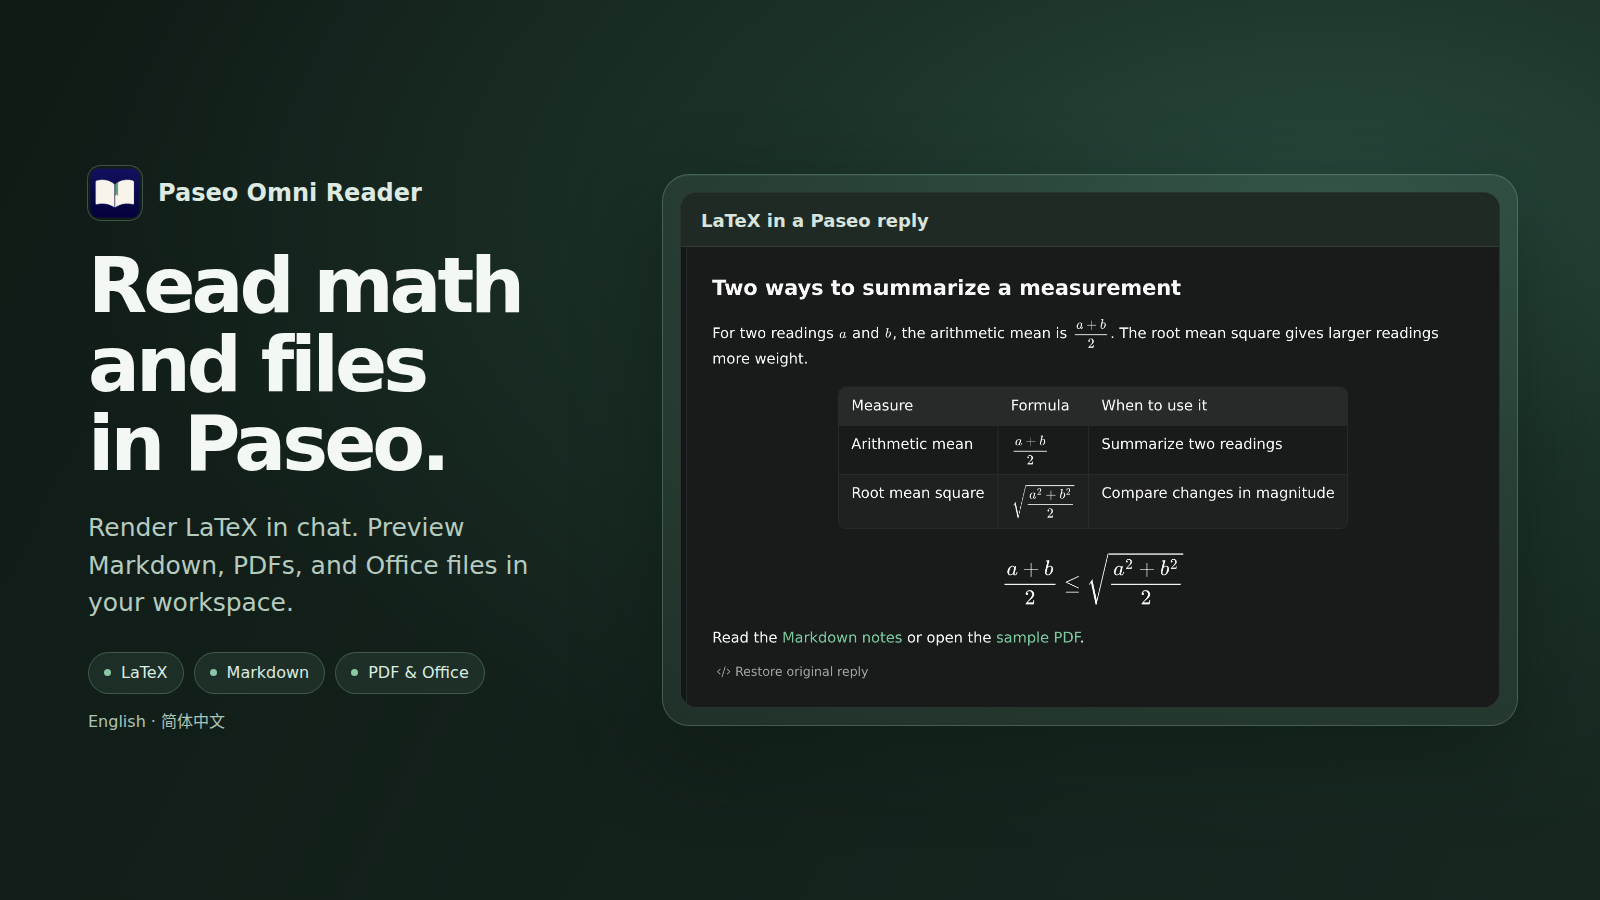
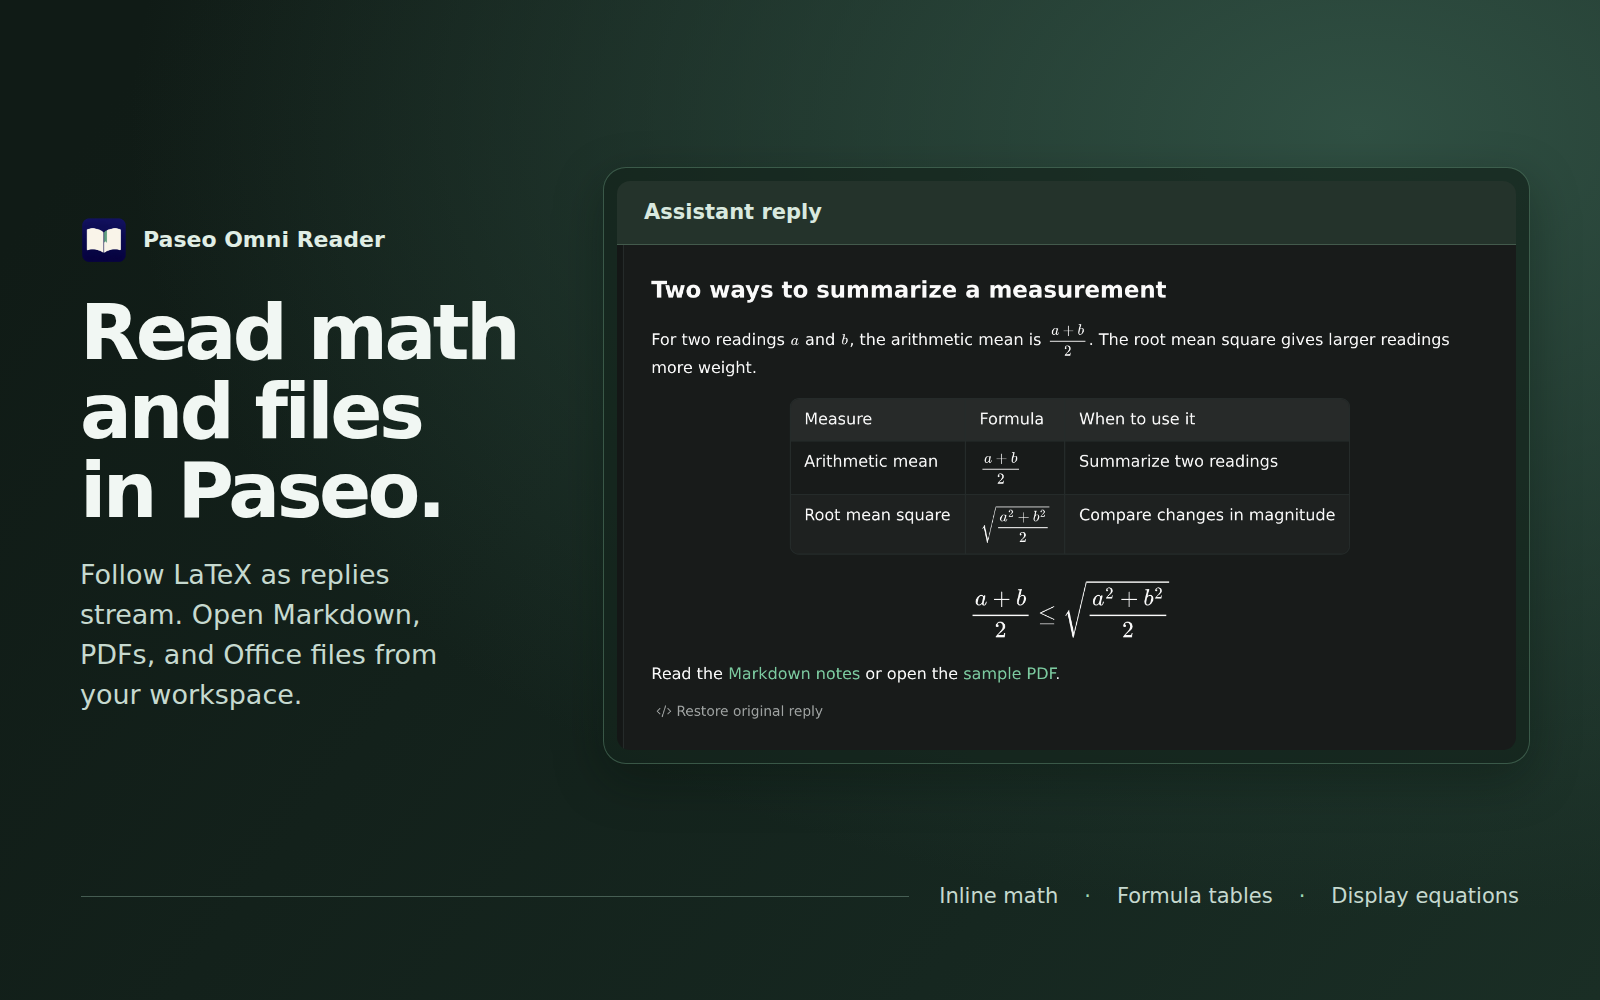
Consolidate marketplace screenshots into three English previews

diff --git a/README.zh-CN.md b/README.zh-CN.md
@@ -6,7 +6,7 @@
 
 Omni Reader 是 Paseo 阅览增强插件。它为流式聊天加入 LaTeX 排版，也为工作区里的 Markdown、PDF、Word、Excel 和 PowerPoint 提供只读预览。
 
-![Paseo 中文回复中的行内分数、公式表格、居中公式和文件链接](assets/chat-zh-CN.png)
+![Paseo 英文回复中的行内分数、公式表格、居中公式和文件链接](assets/cover-en.png)
 
 ## 阅览体验
 
@@ -16,11 +16,9 @@ Omni Reader 是 Paseo 阅览增强插件。它为流式聊天加入 LaTeX 排版
 - **Excel 工作表。** 在网格中双向滚动，按底部标签切换工作表。网格显示行号和列标，保留合并单元格和基础样式。列宽随内容扩展，长文本换行并增加行高。手机上可双指缩放、单指平移。在 Paseo 主机安装 LibreOffice 后，可切换到「打印版式」查看图表和打印效果。
 - **外部编辑。** 在 Paseo 桌面客户端中，本机守护进程上的文件可通过「在外部打开」交给系统默认应用打开原件。浏览器和桌面端的远程工作区下载副本。iOS 和 Android 通过系统分享交给其他 App。Android 系统分享不可用时，可从 Paseo 文件菜单下载副本。
 
-| PDF 阅读器 | PowerPoint 预览 |
+| Markdown 与公式字号 | PDF 与 Office 预览 |
 | --- | --- |
-| ![连续滚动中的横版 PDF 航拍图与下一张竖版页面](assets/pdf-en.png) | ![PowerPoint 幻灯片中的折线图、页码和缩放控件](assets/powerpoint-en.png) |
-
-查看[自动换行的 Excel 备注](assets/excel-zh-CN.png)、[带公式和代码的 Markdown 预览](assets/markdown-zh-CN.png)和[双语公式字号设置](assets/settings-zh-CN.png)。
+| ![渲染后的 Markdown 文档，以及分别设置行内和独立公式字号的选项](assets/markdown-en.png) | ![PDF 航拍图、Word 排版页面、带换行备注的 Excel 工作表和 PowerPoint 折线图](assets/documents-en.png) |
 
 ## 从 GitHub 安装
 

diff --git a/README.md b/README.md
@@ -16,11 +16,9 @@ Omni Reader adds LaTeX to streaming assistant replies and read-only previews for
 - **Excel worksheets.** Read sheets in a scrollable grid with row and column headings, workbook tabs, merged cells, and basic cell styling. Columns expand to fit their contents and long text wraps onto taller rows. Pinch to zoom and drag with one finger on a phone. Use **Print layout** to view the formatted print output and charts when LibreOffice is available on the Paseo host.
 - **External editing.** In Paseo Desktop, **Open externally** opens the original file in the system’s default app when the workspace is on the local daemon. Browsers and remote desktop workspaces download a copy. On iOS and Android, the action hands a copy to the system share sheet. On Android builds where sharing is unavailable, use **Download** from Paseo’s file menu.
 
-| PDF reader | PowerPoint preview |
+| Markdown and formula settings | PDF and Office previews |
 | --- | --- |
-| ![Landscape PDF survey plate followed by a portrait page in continuous view](assets/pdf-en.png) | ![PowerPoint slide with a line chart, slide navigation and zoom controls](assets/powerpoint-en.png) |
-
-See the [Excel worksheet with wrapped notes](assets/excel-zh-CN.png), [Markdown preview with formulas and code](assets/markdown-zh-CN.png), [Simplified Chinese chat example](assets/chat-zh-CN.png), and [bilingual formula size settings](assets/settings-zh-CN.png).
+| ![Rendered Markdown with LaTeX and separate inline and display formula size controls](assets/markdown-en.png) | ![PDF survey map, formatted Word page, Excel worksheet with wrapped notes, and PowerPoint line chart](assets/documents-en.png) |
 
 ## Install from GitHub
 
